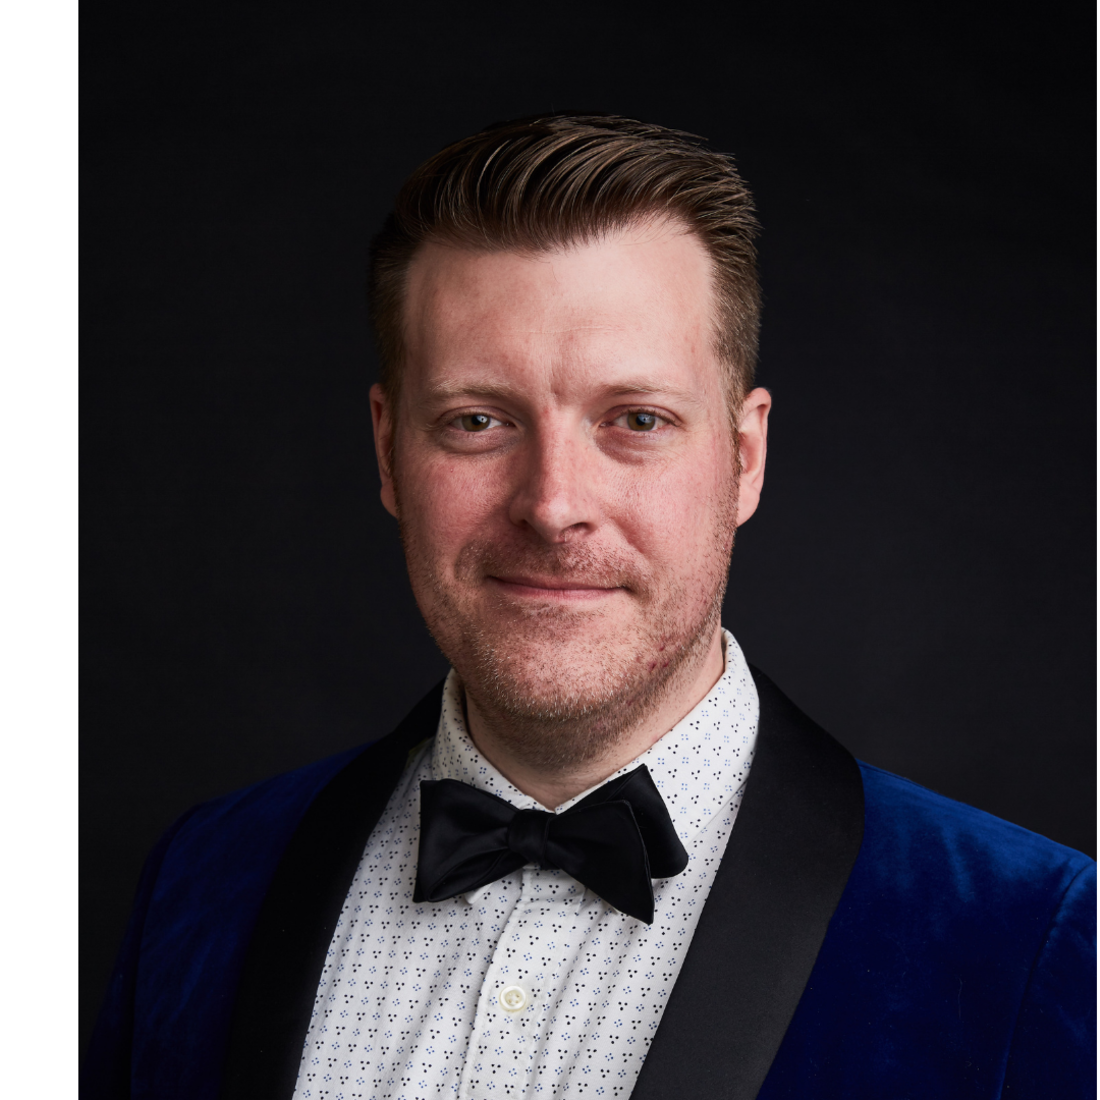
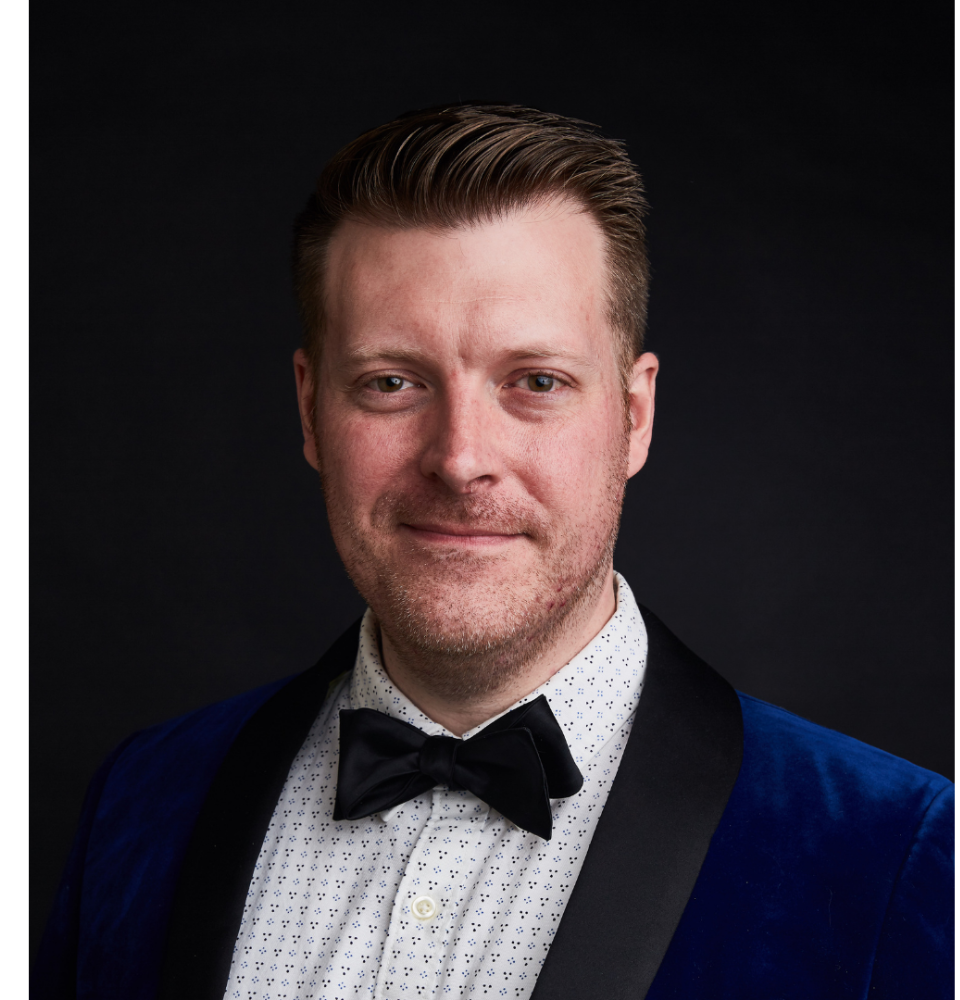
beginnings of wireframe

diff --git a/main.css b/main.css
@@ -2,35 +2,52 @@
   box-sizing: border-box;
 }
 
-html {
-  background: url(IMG_2040.JPG) no-repeat center center fixed;
-  background-size: cover;
-}
-
 body {
   font-family: Verdana, Geneva, Tahoma, sans-serif;
-  background-color: rgb(32, 32, 32);
+  margin: 0;
+  padding: 0;
 }
 
-.outer-container {
-  position: absolute;
-  top:50%;
-  width: 100%;
-  transform: translate( 0, -50%);
+nav {
+  background-color: black;
+  color: white;
+  margin: 0;
 }
 
-.inner-container {
-  border: 2px solid lightsteelblue;
-  margin: 0 auto;
-  height: 200px;
-  width: 100%;
+.home-screen {
   display: flex;
-  flex-direction: column;
-  align-items: center;
-  justify-content: center;
-  background-color: rgba(255, 255, 255, 0.808);
+  border: 1px solid green;
+  max-width: 1400px;
 }
 
-h1 {
-  padding: 20px;
+.left-side {
+  border: 1px solid red;
+  width: 50%;
 }
+
+.hero-shot img {
+  width: 100%;
+  height:auto;
+  margin: 0;
+  padding: 0;
+}
+
+.right-side {
+  border: 1px solid blue;
+  width: 50%;
+  background-color: white;
+  position: relative;
+}
+
+.welcome-message {
+  position: absolute;
+  margin-left: 5%;
+  margin-top: 20%;
+}
+
+.scroll-message {
+  position: absolute;
+  bottom: 10px;
+  left: 20%;
+}
+

diff --git a/index.html b/index.html
@@ -8,11 +8,50 @@
   <title>Brian Wlazlo</title>
 </head>
 <body>
-  <div class="outer-container">
-    <div class="inner-container">
-      <h1>STAY TUNED FOR MORE INFORMATION</h1>
+ 
+  <nav>
+    <ul>
+      <li>about me</li>
+      <li>portfolio</li>
+      <li>contact me</li>
+    </ul>
+  </nav>
+
+  <!-- welcome screen-->
+  <section id="home-screen" class="home-screen">
+
+    <div class="left-side">
+      <div class="hero-shot">
+        <img src="./pics/Brian-blueflannel-zoomed-and-cropped.png" alt="">
+      </div>
     </div>
-  </div>
+
+    <div class="right-side">
+      <div class="welcome-message">
+        <h1>Hi. My name is Brian and I like to make web sites</h1>
+      </div>
+      <div class="scroll-message">
+        <h3>Scroll down to see some of my work</h3>
+      </div>
+    </div>
+  
+  </section>
+
+  <!-- latetst work -->
+  <section class="latest-work">
+    <div class="title">
+      <h2>Latest Work</h2>
+    </div> 
+    
+    <div class="project-1"></div>
+    <div class="project-2"></div>
+    <div class="project-3"></div>
+  </section>
+
+  <footer>
+    <p>&copy; Brian Wlazlo</p>
+  </footer>
+  
   <script src='index.js'></script>
 </body>
 </html>
